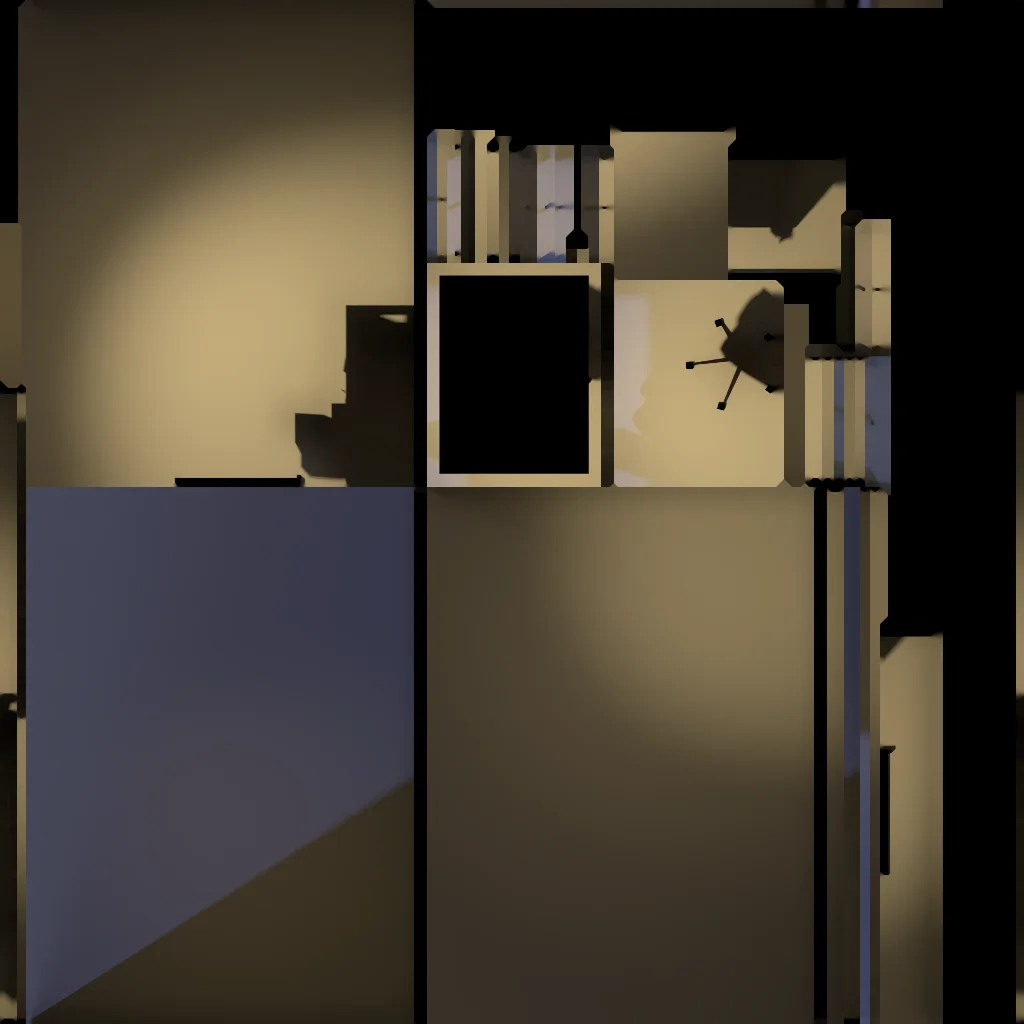
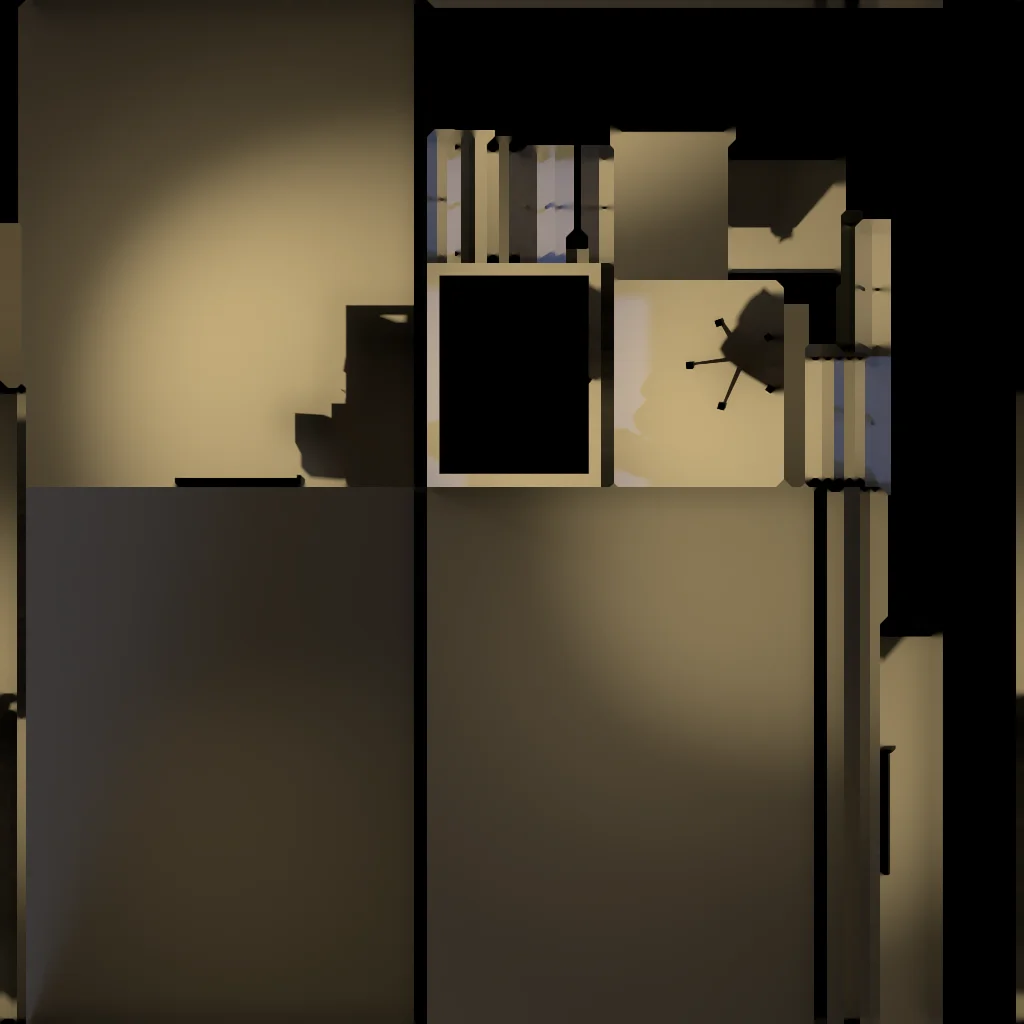
Keep the moonlight off the right wall so it has no hard shadow edge

Changed region(s): [[0.0, 0.4688, 0.4062, 1.0], [0.8125, 0.4688, 0.875, 1.0]]

diff --git a/scripts/bake/stage.py b/scripts/bake/stage.py
@@ -237,7 +237,18 @@ def add_lights(model_path):
     add_sun('__rim', (30, 20, -10), hex_lin('#ffe8cc'), 0.03, 3)
     moon = float(os.environ.get('MOON', '0.8'))
     if moon > 0:
-        add_sun('__moon', (-2, 4.7, -3), hex_lin('#8fa8ff'), moon, 1.5)
+        mo = add_sun('__moon', (-2, 4.7, -3), hex_lin('#8fa8ff'), moon, 1.5)
+        # The moon comes over the top of the back wall, whose shadow lands on
+        # the right wall as a long hard diagonal: blue above, warm below. The
+        # home view puts the title on that wall, so by default it skips the
+        # moon and keeps the lamp's soft falloff only (MOON_RIGHT=1: as before).
+        if os.environ.get('MOON_RIGHT', '0') != '1':
+            moon_skip = bpy.data.collections.new('__moon_receivers')
+            for n in (ROOM_PREFIX + 'Right', ROOM_PREFIX + 'BaseRight'):
+                moon_skip.objects.link(scene.objects[n])
+            for co in moon_skip.collection_objects:
+                co.light_linking.link_state = 'EXCLUDE'
+            mo.light_linking.receiver_collection = moon_skip
 
     scr = scene.objects['ComputerScreen']
     bb = [scr.matrix_world @ Vector(c) for c in scr.bound_box]
